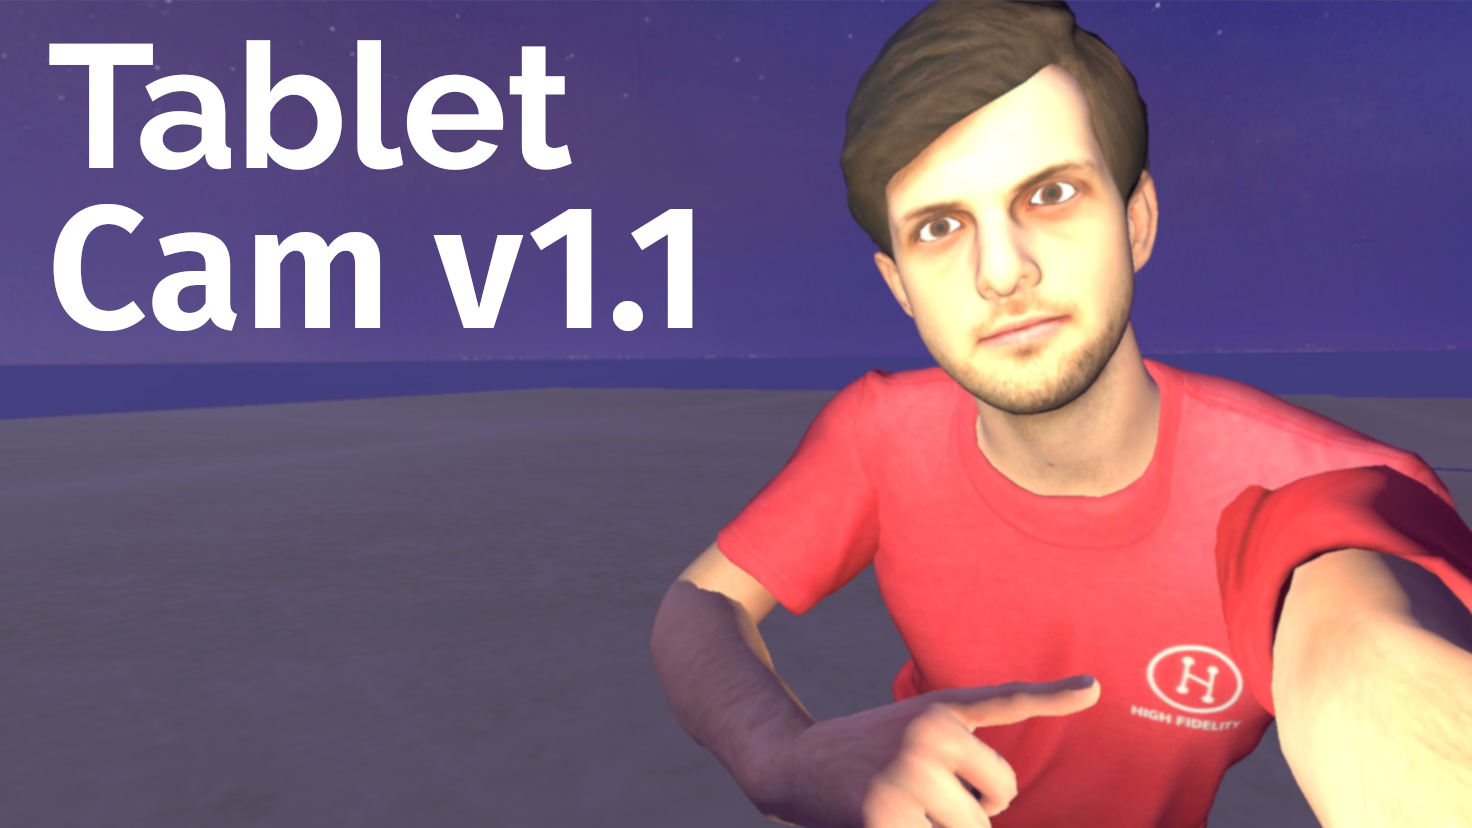
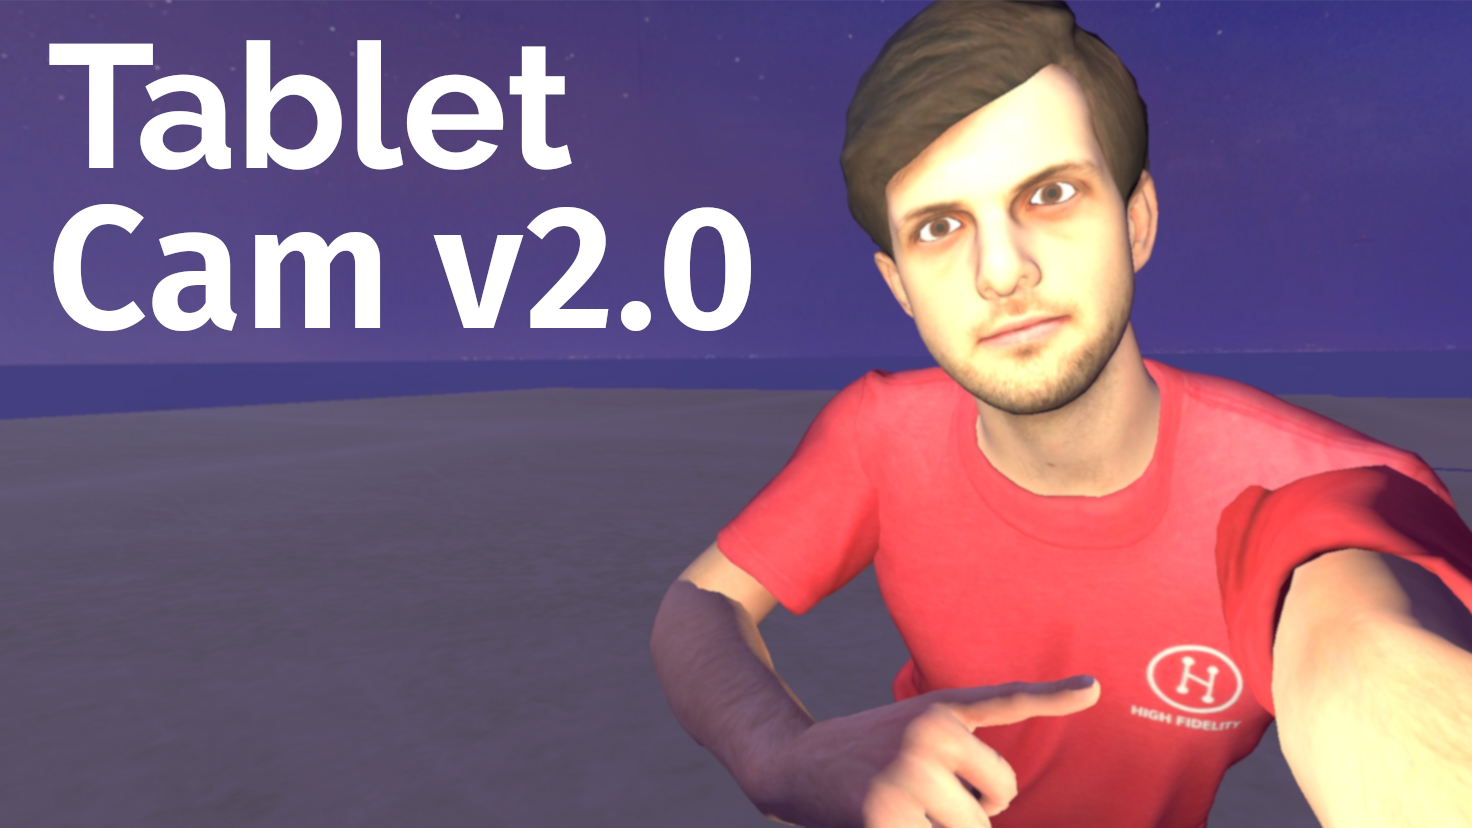
Small updates to tablet cam image and description

Changed region(s): [[0.3438, 0.2415, 0.5312, 0.4227]]

diff --git a/Tablet Cam/marketplaceData/Marketplace Description.md b/Tablet Cam/marketplaceData/Marketplace Description.md
@@ -1,5 +1,7 @@
 The Tablet Cam app allows you to **easily take selfies and regular photos in High Fidelity** using your Tablet or hand controllers!
 
+This is the fully-featured PRO version of Tablet Cam. A free version with fewer features is coming soon.
+
 ### Features
 
 - **Front-facing and rear-facing** cameras and flashes with optional **custom positioning**
@@ -23,7 +25,7 @@ v2.0 (2019-04)
 - Fixed a bug that caused the position of the rear-facing camera to be incorrect in HMD mode.
 - Switched Overlay usage to Local Entities.
 - Now you can use Tablet Cam in Desktop mode while "Desktop Tablet becomes Toolbar" is unchecked - although I'm not sure why you'd want to do that. :)
-- Fixed some QML bugs.
+- Fixed some interface bugs.
 
 v1.1 (2019-02)
 
